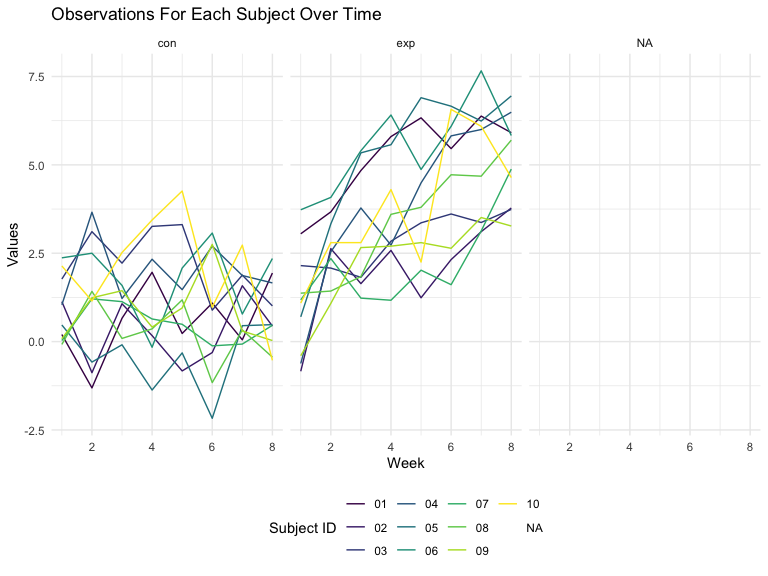
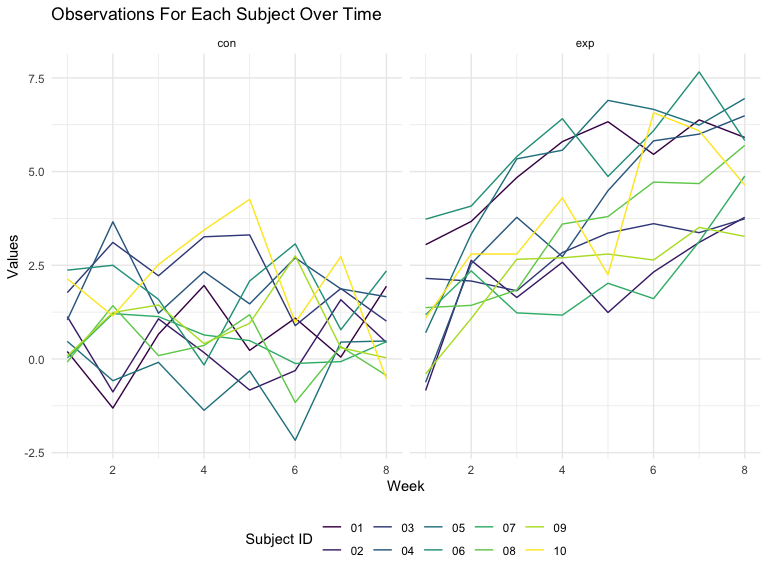
I made a second plot of the average estimate of μ̂ only in samples for which the null was rejected on the y axis and the true value of μ on the x axis. I commented on the plot.

diff --git a/p8105_hw5_ar4459.md b/p8105_hw5_ar4459.md
@@ -322,12 +322,9 @@ data_clean =
     names_prefix = "week_",
     values_to =  "value") |> 
   select(subject_ID, tx_arm, week, value) |>
-  mutate(week = as.numeric(week))
-
-min(pull(data_clean |> filter(tx_arm == "con")))
+  mutate(week = as.numeric(week)) |> 
+  drop_na()
 ```
-
-    ## [1] -2.17
 
 Spaghetti plot
 
@@ -390,7 +387,7 @@ sim_results
     ## # A tibble: 1 × 8
     ##   estimate statistic  p.value parameter conf.low conf.high method    alternative
     ##      <dbl>     <dbl>    <dbl>     <dbl>    <dbl>     <dbl> <chr>     <chr>      
-    ## 1     32.3      31.2 7.00e-24        29     30.1      34.4 One Samp… two.sided
+    ## 1     30.3      33.0 1.47e-24        29     28.4      32.2 One Samp… two.sided
 
 ``` r
 # Repeat the above for μ={1,2,3,4,5,6}
@@ -468,3 +465,42 @@ avg_mu_plot
 <img src="p8105_hw5_ar4459_files/figure-gfm/unnamed-chunk-13-1.png" width="90%" />
 Based on the plot, the value of the average mu estimate closely
 approximates the true value of mu.
+
+``` r
+# Make a second plot (or overlay on the first) the average estimate of μ̂ only in samples for which the null was rejected on the y axis and the true value of μ on the x axis. Is the sample average of μ̂ across tests for which the null is rejected approximately equal to the true value of μ ? Why or why not?
+
+avg_mu__power_reject = 
+  sim_results_mu |> 
+  mutate(
+    reject = p.value < 0.05
+  ) |> 
+  group_by(mu) |> 
+  filter(reject == "TRUE") |> 
+  summarize(
+    power = sum(reject)/N,
+    mean_mu_estimate = mean(estimate)
+  )
+
+avg_mu__power_reject_plot = 
+  avg_mu__power_reject |> 
+  ggplot(aes(x = mu, y = mean_mu_estimate)) +
+  geom_point() + 
+  geom_line() +
+  labs(
+    x = "True Value of Mu",
+    y = "Average Estimate of Mu",
+    title = "True Value vs Average Estimate of Mu 
+    (When Null Is Rejected)"
+  )
+
+avg_mu__power_reject_plot
+```
+
+<img src="p8105_hw5_ar4459_files/figure-gfm/unnamed-chunk-14-1.png" width="90%" />
+According to the plot, the sample average of μ̂ across tests for which
+the null is rejected is approximately equal to the true value of μ. For
+example, when the true value of mu is 2, the average mu is 2.42. When
+the true value of 3, the average mu is 3.27. When the true value of mu
+is 4, the average mu is 4.23. When the true value of mu is 5, the
+average mu is 4.87. When the true mu is 6, the average mu is 6.42. The
+only exception is when mu is 1, the average mu is 2.18.
